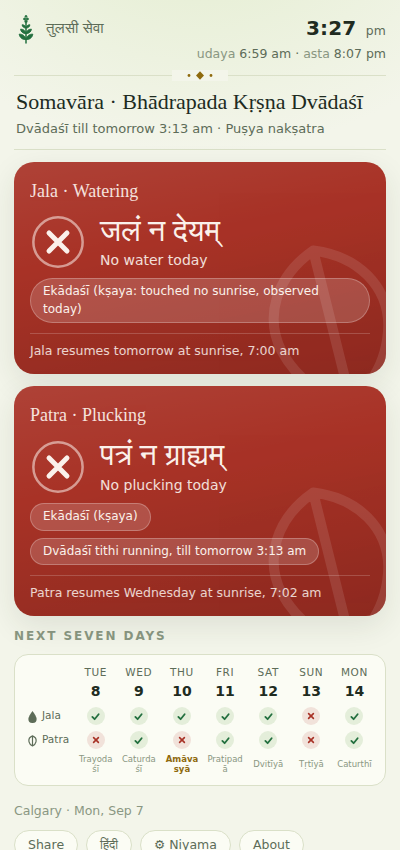
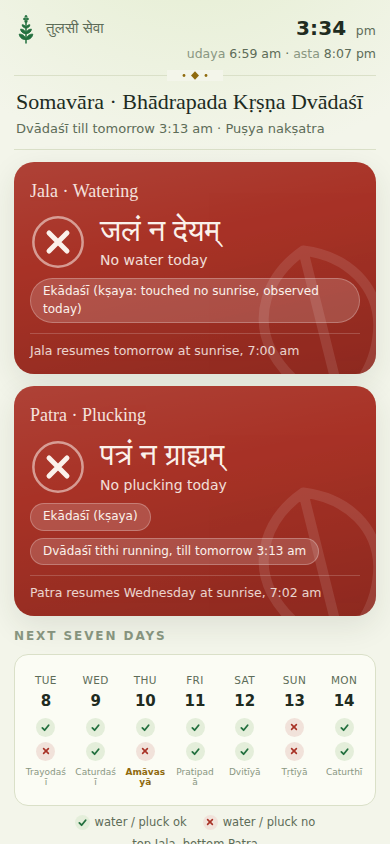
Rebuild outlook strip as robust per-day columns with legend; fixes desktop misalignment

diff --git a/index.html b/index.html
@@ -117,18 +117,22 @@
 
   /* outlook */
   .outlook h2 { font-size: 12px; letter-spacing: .16em; text-transform: uppercase; color: var(--faint); font-weight: 600; margin: 0 0 8px; }
-  .strip { display: grid; grid-template-columns: auto repeat(7, 1fr); gap: 6px 6px; align-items: center; background: var(--panel); border: 1px solid var(--line); border-radius: 14px; padding: 10px 12px; }
-  .s-day { display: flex; flex-direction: column; align-items: center; gap: 1px; }
-  .s-day .dw { font-size: 10.5px; letter-spacing: .06em; text-transform: uppercase; color: var(--muted); }
-  .s-day .dt { font-size: 14px; font-weight: 600; font-variant-numeric: tabular-nums; }
-  .s-lab { display: inline-flex; align-items: center; gap: 4px; font-size: 10.5px; color: var(--muted); padding-right: 2px; }
-  .s-lab svg { flex: 0 0 auto; }
-  .dot { width: 18px; height: 18px; border-radius: 50%; display: grid; place-items: center; justify-self: center; }
+  .strip { display: flex; gap: clamp(3px, 1vw, 8px); background: var(--panel); border: 1px solid var(--line); border-radius: 14px; padding: 12px clamp(8px, 2vw, 14px); }
+  .s-cell { flex: 1 1 0; min-width: 0; display: flex; flex-direction: column; align-items: center; gap: 5px; padding: 6px 2px; border-radius: 10px; }
+  .s-cell.today { background: var(--wash); }
+  .s-cell .dw { font-size: 10.5px; letter-spacing: .04em; text-transform: uppercase; color: var(--muted); }
+  .s-cell .dt { font-size: 15px; font-weight: 600; font-variant-numeric: tabular-nums; margin-top: -2px; }
+  .dot { width: 19px; height: 19px; border-radius: 50%; display: grid; place-items: center; }
   .dot svg { display: block; }
   .dot.ok { background: var(--ok-soft); color: var(--ok-glyph); }
   .dot.no { background: var(--no-soft); color: var(--no-glyph); }
-  .s-tithi { text-align: center; font-size: 8.5px; color: var(--faint); line-height: 1.15; overflow: hidden; overflow-wrap: anywhere; max-height: 20px; min-width: 0; }
+  .s-tithi { text-align: center; font-size: 9px; color: var(--faint); line-height: 1.12; overflow-wrap: anywhere; hyphens: auto; margin-top: 1px; }
   .s-tithi.sp { color: var(--gold); font-weight: 600; }
+  .legend { display: flex; justify-content: center; flex-wrap: wrap; gap: 6px 16px; margin-top: 8px; font-size: 11.5px; color: var(--muted); }
+  .legend span { display: inline-flex; align-items: center; gap: 5px; }
+  .legend .k { width: 15px; height: 15px; border-radius: 50%; display: grid; place-items: center; }
+  .legend .k.ok { background: var(--ok-soft); color: var(--ok-glyph); }
+  .legend .k.no { background: var(--no-soft); color: var(--no-glyph); }
 
   /* footer */
   .foot { margin-top: auto; display: flex; flex-wrap: wrap; justify-content: space-between; align-items: center; gap: 10px; color: var(--faint); font-size: 12.5px; padding-top: 4px; }
@@ -249,6 +253,7 @@
   <section class="outlook">
     <h2 id="outlook-h2">Next seven days</h2>
     <div class="strip" id="strip"></div>
+    <div class="legend" id="strip-legend"></div>
   </section>
 
   <footer class="foot">
@@ -885,7 +890,7 @@ if (typeof module !== 'undefined') module.exports = { createPanchang };
       banner: 'Showing pañcāṅga for {p}, guessed from your clock. Set your exact place, since verdicts depend on local sunrise.',
       bannerNoGuess: 'Set your location, since verdicts depend on local sunrise.',
       yourLoc: 'Your location', till: 'till',
-      titleWater: 'Jala · Watering', titlePluck: 'Patra · Plucking', btnNiyama: '⚙ Niyama', btnAbout: 'About',
+      titleWater: 'Jala · Watering', titlePluck: 'Patra · Plucking', btnNiyama: '⚙ Niyama', btnAbout: 'About', legWater: 'water', legPluck: 'pluck', legToday: 'today',
       sk_ekadashi: 'Ekādaśī', sk_sankranti: 'Saṅkrānti', sk_purnima: 'Pūrṇimā', sk_amavasya: 'Amāvasyā', sk_dvadashi: 'Dvādaśī',
       shareText: 'Tulasī Sevā, should you water or pluck tulasī today? Live śāstra verdict, free: ' },
     hi: { waterYes: 'आज जल चढ़ाएँ', waterNo: 'आज जल न चढ़ाएँ', waterNoNight: 'रात्रि में जल नहीं',
@@ -898,7 +903,7 @@ if (typeof module !== 'undefined') module.exports = { createPanchang };
       banner: 'आपकी घड़ी से {p} माना गया है। सटीक स्थान चुनें, निर्णय स्थानीय सूर्योदय पर निर्भर हैं।',
       bannerNoGuess: 'अपना स्थान चुनें, निर्णय स्थानीय सूर्योदय पर निर्भर हैं।',
       yourLoc: 'आपका स्थान', till: 'तक',
-      titleWater: 'जलम् · जल-अर्पण', titlePluck: 'पत्रम् · पत्र-चयन', btnNiyama: '⚙ नियम', btnAbout: 'विवरण',
+      titleWater: 'जलम् · जल-अर्पण', titlePluck: 'पत्रम् · पत्र-चयन', btnNiyama: '⚙ नियम', btnAbout: 'विवरण', legWater: 'जल', legPluck: 'पत्र', legToday: 'आज',
       sk_ekadashi: 'एकादशी', sk_sankranti: 'सङ्क्रान्ति', sk_purnima: 'पूर्णिमा', sk_amavasya: 'अमावस्या', sk_dvadashi: 'द्वादशी',
       shareText: 'तुलसी सेवा, आज तुलसी को जल चढ़ाएँ या नहीं? देखें: ' }
   };
@@ -1067,26 +1072,26 @@ if (typeof module !== 'undefined') module.exports = { createPanchang };
   function renderStrip(days) {
     const view = days.slice(1, 8);
     const loc = S.lang === 'hi' ? 'hi-IN' : 'en-US';
-    const DROP = '<svg width="11" height="13" viewBox="0 0 12 14" aria-hidden="true"><path d="M6 1 C6 1 1.5 7 1.5 9.6 A4.5 4.5 0 0 0 10.5 9.6 C10.5 7 6 1 6 1 Z" fill="currentColor"/></svg>';
-    const LEAF = '<svg width="11" height="13" viewBox="0 0 12 14" aria-hidden="true"><path d="M6 13 C6 9 6 5 6 2 M6 2 C3 3.2 1.6 5.8 2.2 8.4 C2.8 10.7 4.3 12.2 6 13 C7.7 12.2 9.2 10.7 9.8 8.4 C10.4 5.8 9 3.2 6 2 Z" fill="none" stroke="currentColor" stroke-width="1.3" stroke-linejoin="round"/></svg>';
     const dot = ok => '<span class="dot ' + (ok ? 'ok' : 'no') + '">' + (ok ? DOT_OK : DOT_NO) + '</span>';
-    let h = '<span></span>';
-    for (const d of view) {
-      h += '<div class="s-day"><span class="dw">' + d.rise.toLocaleDateString(loc, { weekday: 'short', timeZone: S.tz }) +
-        '</span><span class="dt">' + d.rise.toLocaleDateString('en-US', { day: 'numeric', timeZone: S.tz }) + '</span></div>';
-    }
-    h += '<span class="s-lab">' + DROP + t('jala') + '</span>';
-    for (const d of view) h += dot(d.water);
-    h += '<span class="s-lab">' + LEAF + t('patra') + '</span>';
-    for (const d of view) h += dot(d.pluck);
-    h += '<span></span>';
+    let h = '';
     for (const d of view) {
       const sk = d.specialKeys && d.specialKeys[0];
       const name = sk ? t('sk_' + sk) : (S.lang === 'hi' ? P.tithiLabel(d.udaya).dev : P.tithiLabel(d.udaya).en);
-      h += '<span class="s-tithi' + (sk ? ' sp' : '') + '">' + name + '</span>';
+      h += '<div class="s-cell">' +
+        '<span class="dw">' + d.rise.toLocaleDateString(loc, { weekday: 'short', timeZone: S.tz }) + '</span>' +
+        '<span class="dt">' + d.rise.toLocaleDateString('en-US', { day: 'numeric', timeZone: S.tz }) + '</span>' +
+        dot(d.water) + dot(d.pluck) +
+        '<span class="s-tithi' + (sk ? ' sp' : '') + '">' + name + '</span></div>';
     }
     $('strip').innerHTML = h;
+    $('strip-legend').innerHTML =
+      '<span><span class="k ok">' + DOT_OK + '</span>' + t('legWater') + ' / ' + t('legPluck') + ' ' + okWord() + '</span>' +
+      '<span><span class="k no">' + DOT_NO + '</span>' + t('legWater') + ' / ' + t('legPluck') + ' ' + noWord() + '</span>' +
+      '<span>' + rowsNote() + '</span>';
   }
+  function okWord() { return S.lang === 'hi' ? 'ठीक' : 'ok'; }
+  function noWord() { return S.lang === 'hi' ? 'वर्जित' : 'no'; }
+  function rowsNote() { return S.lang === 'hi' ? 'ऊपर ' + t('jala') + ', नीचे ' + t('patra') : 'top ' + t('jala') + ', bottom ' + t('patra'); }
 
   // ---------- settings UI ----------
   const WATER_TGL = [
